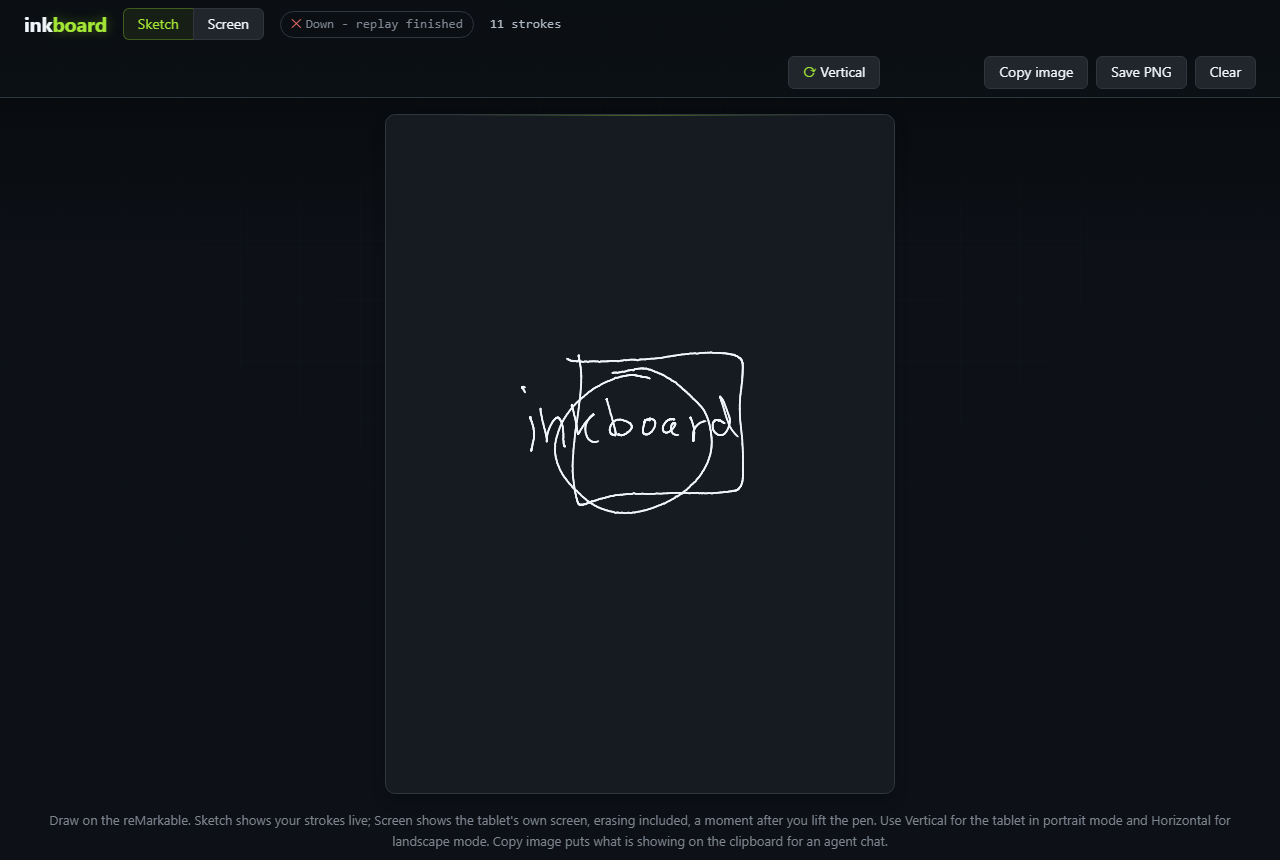
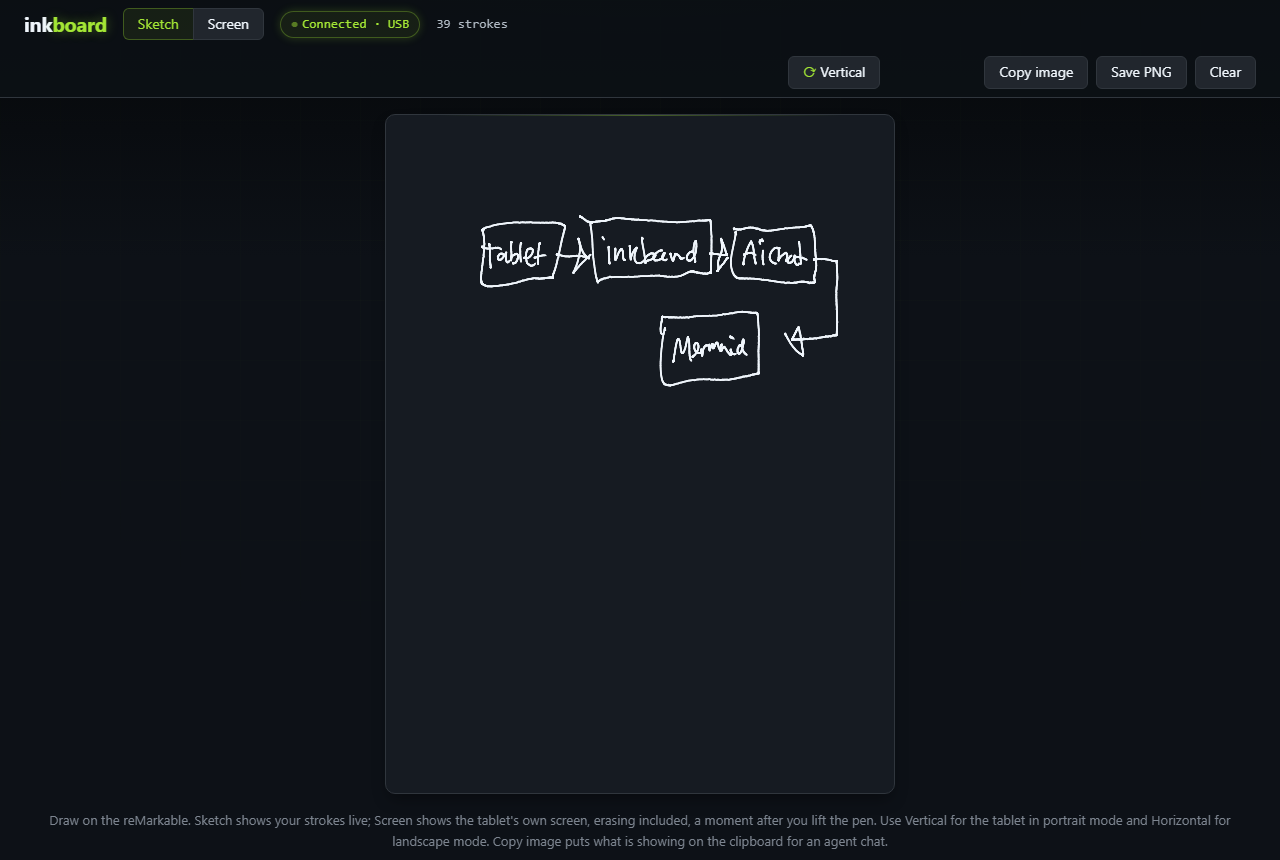
docs: a live screenshot and a social preview
The README image now shows a diagram drawn live on the tablet with the
page connected over USB, instead of a finished replay; the same view at
1280 x 640 is the repository's social preview. CONTRIBUTING says how to
retake them without showing a network address.

diff --git a/CONTRIBUTING.md b/CONTRIBUTING.md
@@ -117,6 +117,12 @@ then change `SUPPORTED_FIRMWARE` (and `FRAME_OFFSET` if it moved) in
 `src/inkboard/services/screen.py`, extend `tests/test_screen.py`, and say in the pull request
 which tablet and firmware you measured on.
 
+## Screenshots
+
+`docs/images/inkboard.png` (the README) and `docs/images/social-preview.png` (the repository's
+1280 × 640 social preview) are screenshots of the page. When you retake one, connect over the USB
+cable so the chip shows no network address, and draw nothing personal.
+
 ## Commits and pull requests
 
 - Work on a branch and open a pull request against `main`; CI must be green.

diff --git a/README.md b/README.md
@@ -20,7 +20,7 @@ It installs nothing on the tablet to do this, serves the page on `127.0.0.1` onl
 your handwriting. It uses the USB cable when it is plugged in and the tablet's Wi-Fi when it is
 not, and it switches between the two by itself.
 
-![The inkboard page in the Sketch view, replaying the sample recording: a circle, a square and the word "inkboard"](docs/images/inkboard.png)
+![The inkboard page in the Sketch view, connected over USB, showing a diagram drawn live on the tablet: tablet, inkboard, AI chat and Mermaid joined by arrows](docs/images/inkboard.png)
 
 ## Why you might want it
 
